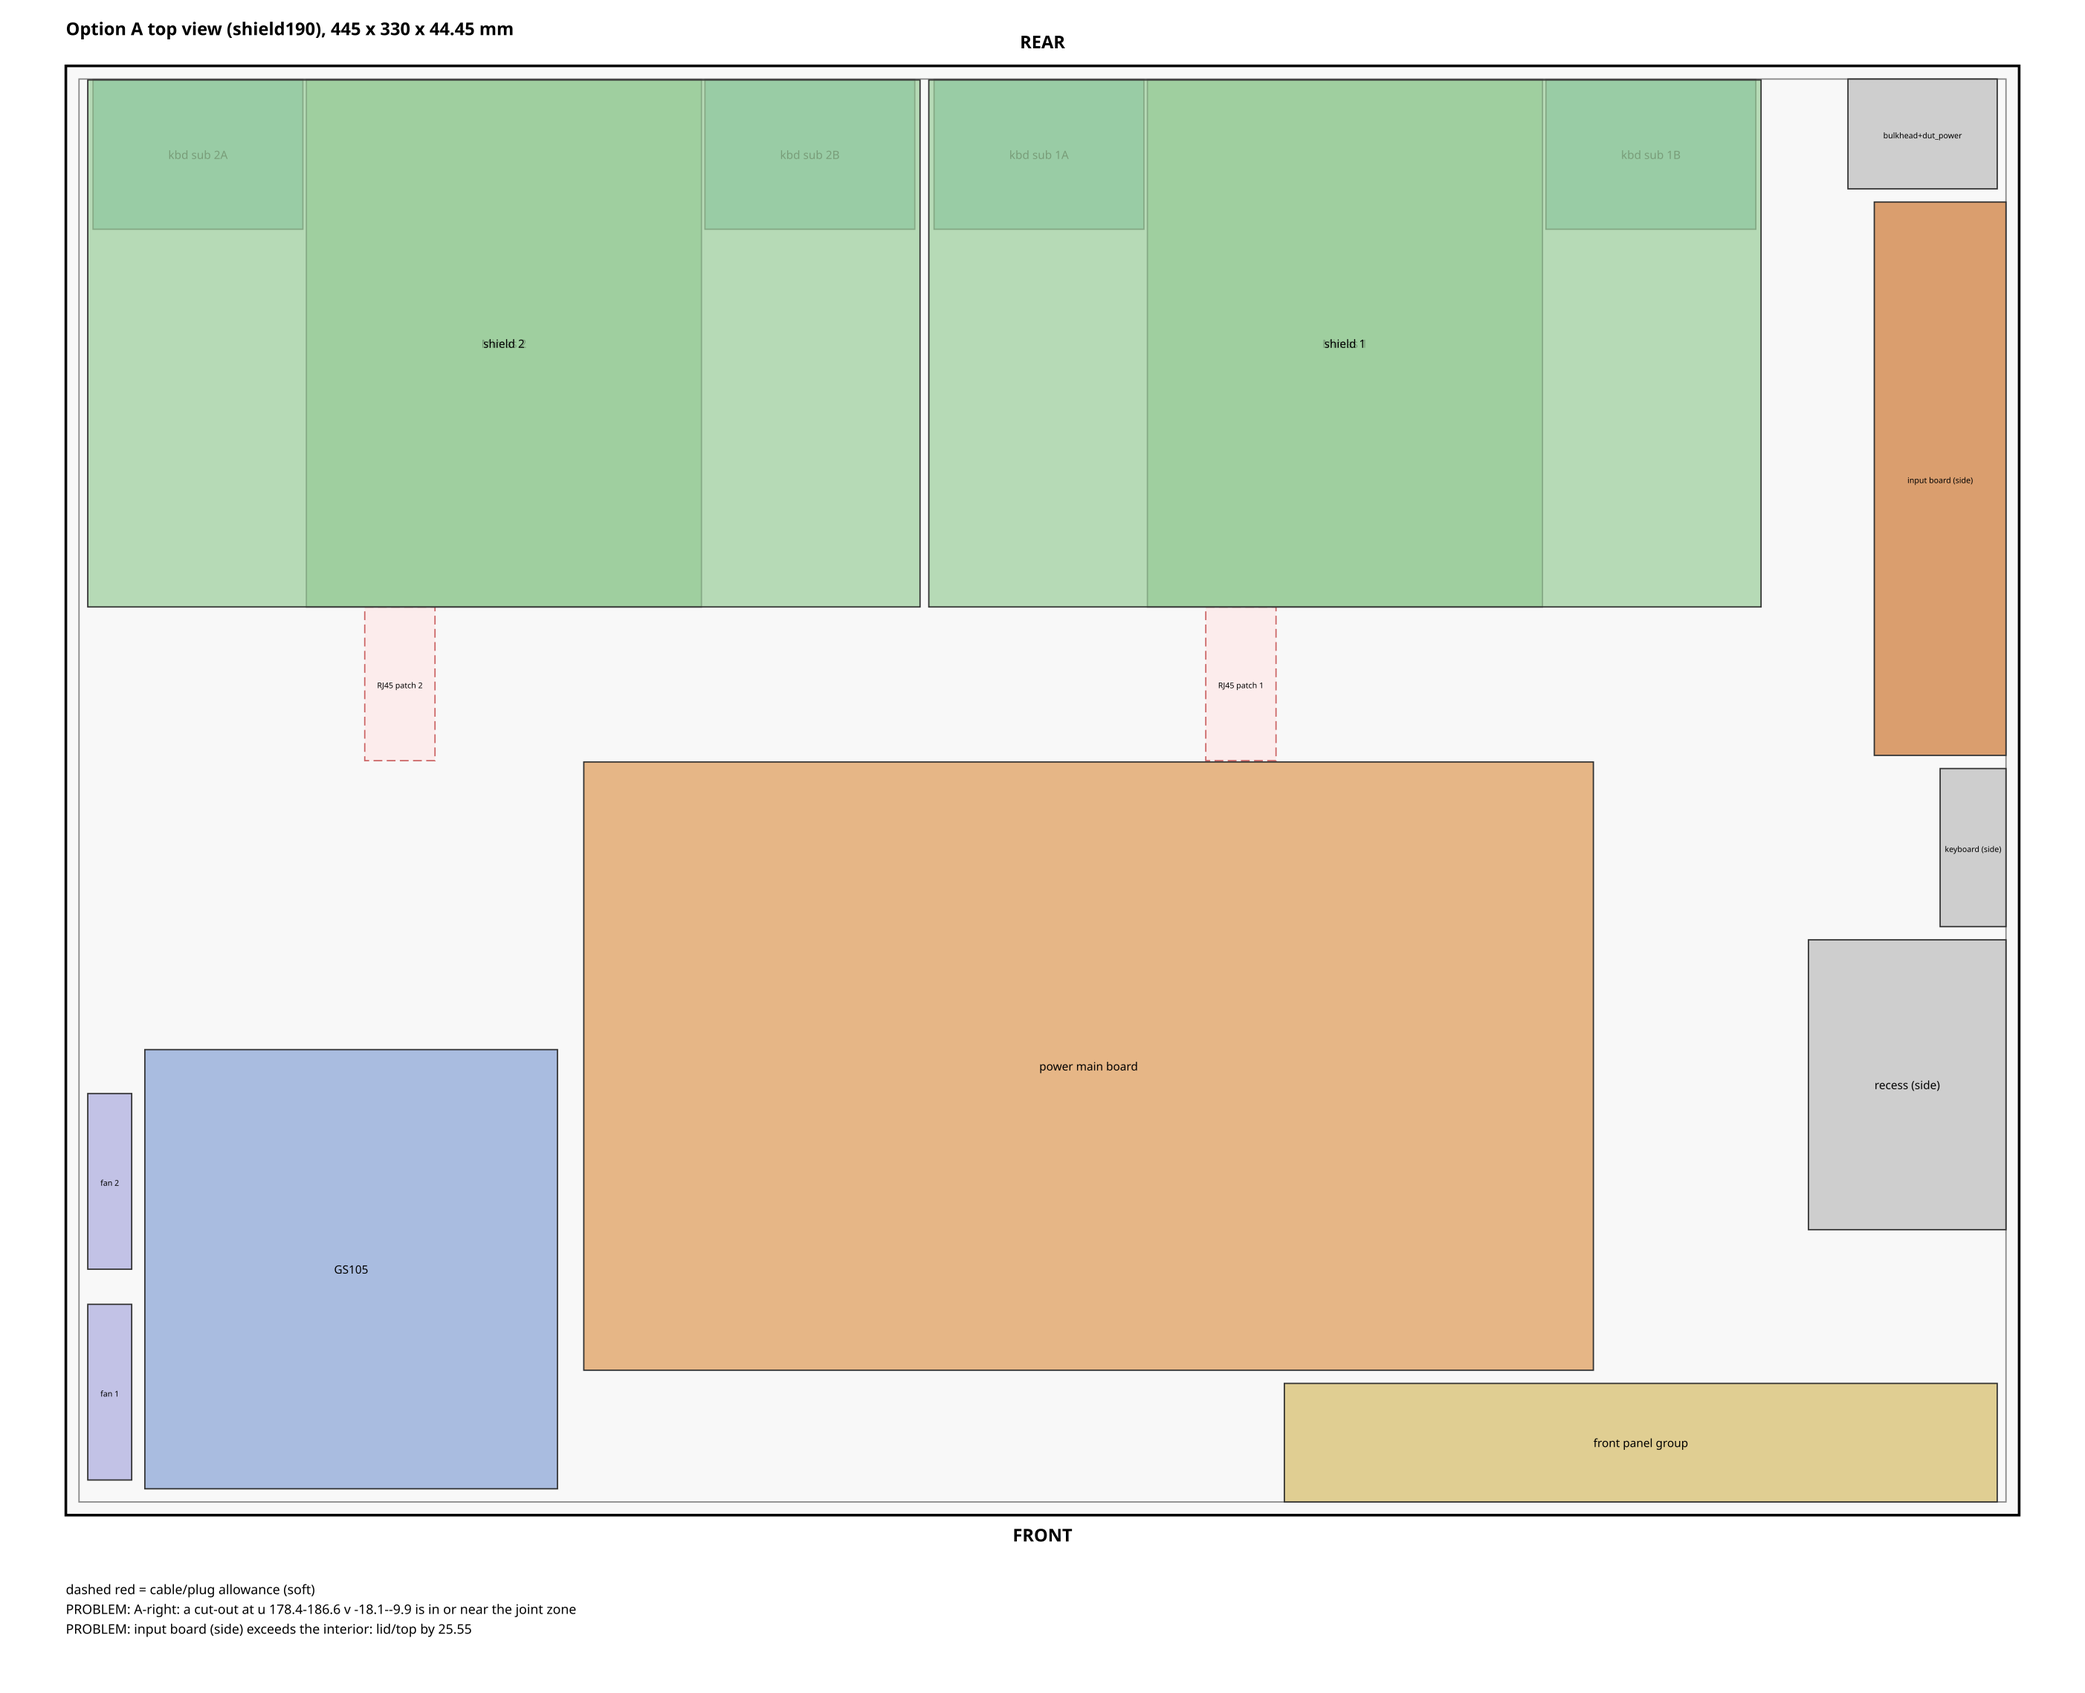
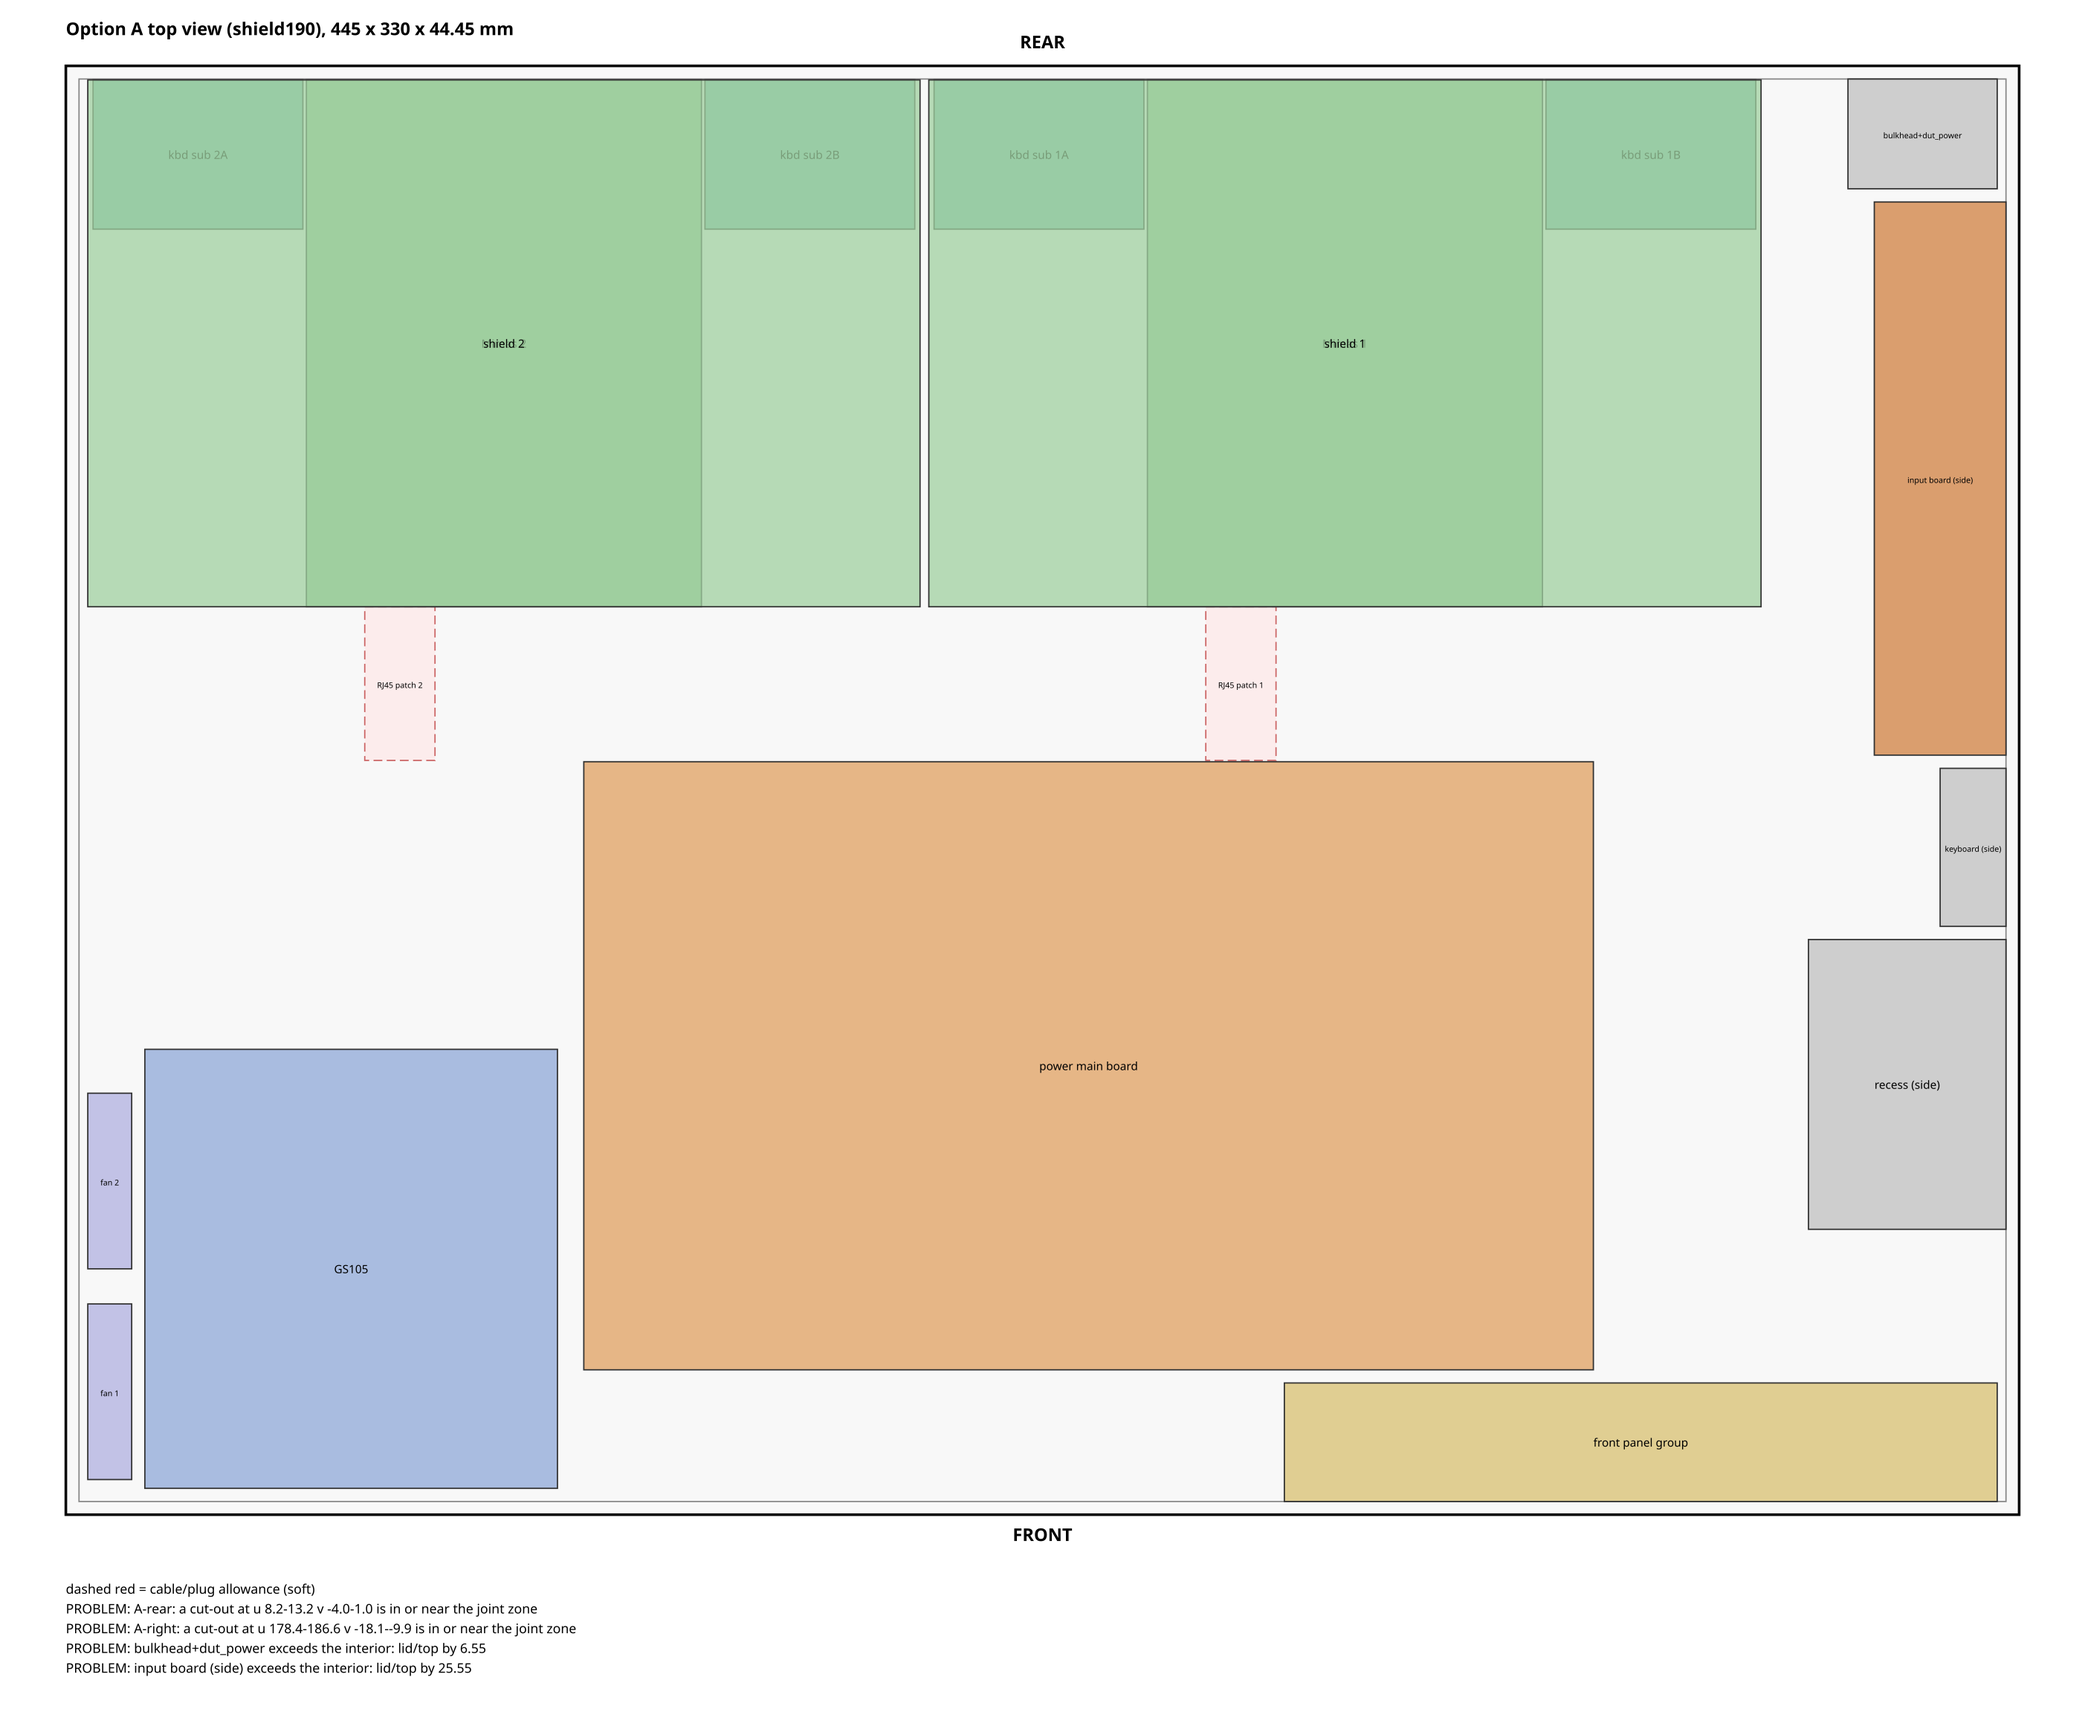
Case: 9th rear lead hole for the 6 V outlet (0055), in a row above the 12 V leads

diff --git a/hardware/mega-kvm-case/casegen/fragments.py b/hardware/mega-kvm-case/casegen/fragments.py
@@ -160,8 +160,13 @@ def keyboard(cfg, zc=18.0):
 
 
 def dut_power(cfg, z_rows=(25.0, 32.5)):
+    """8 DUT 12 V lead holes in two rows of 4, plus the extra leads in
+    ITEMS['dut_power']['extra'] (e.g. the 6 V outlet, issue 0055) in a third
+    row above them (same width, so the column next to the bays does not grow)."""
     d = cfg.ITEMS['dut_power']
+    extra = d.get('extra', [])[:4]
     w = 4 * d['pitch'] + 4.0
+    zs = list(z_rows) + ([z_rows[-1] + (z_rows[1] - z_rows[0])] if extra else [])
 
     def draw(p, u0, V):
         for r, z in enumerate(z_rows):
@@ -169,8 +174,14 @@ def dut_power(cfg, z_rows=(25.0, 32.5)):
                 u = u0 + 2.0 + d['pitch'] * (i + 0.5)
                 p.cut(Circle(u, V(z), d['hole_d'] / 2))
                 label(p, str(r * 4 + i + 1), u, V(z - d['hole_d'] / 2 - 1.1), 1.2)
-        label(p, 'DUT 12V', u0 + w / 2, V(z_rows[1] + d['hole_d'] / 2 + 1.6), 1.6)
-    return Item('dut_power', w, draw, 5.0, (z_rows[0] - 5, z_rows[1] + 5), title='DUT power leads (8)')
+        for i, name in enumerate(extra):
+            u = u0 + 2.0 + d['pitch'] * (i + 0.5)
+            p.cut(Circle(u, V(zs[-1]), d['hole_d'] / 2))
+            label(p, name, u, V(zs[-1] - d['hole_d'] / 2 - 1.1), 1.2)
+        label(p, 'DUT 12V' + (' / ' + ' '.join(extra) if extra else ''), u0 + w / 2,
+              V(zs[-1] + d['hole_d'] / 2 + 1.6), 1.6)
+    return Item('dut_power', w, draw, 5.0, (zs[0] - 5, zs[-1] + 5),
+                title='DUT power leads (%d)' % (8 + len(extra)))
 
 
 def net_and_power(cfg):

diff --git a/hardware/mega-kvm-case/config.py b/hardware/mega-kvm-case/config.py
@@ -156,7 +156,8 @@ FRONT = {               # front panel items (issue 0050)
 ITEMS = {
     'bulkhead': {'hole': (16.0, 13.5), 'screws': 13.0, 'screw_d': 3.4, 'depth': 25.0},  # flanged RJ45 coupler (ASSUMED)
     'keyboard': {'hole': (20.8, 9.4), 'screws': 15.0, 'screw_d': 3.4, 'depth': 15.0},   # 2x5 box header on a small adapter PCB
-    'dut_power': {'hole_d': 5.0, 'pitch': 7.5},      # 8 DC leads (screw terminals inside, barrel plugs outside)
+    'dut_power': {'hole_d': 5.0, 'pitch': 7.5,      # 8 DC leads (screw terminals inside, barrel plugs outside)
+                  'extra': ['6V']},                # + the K325T 6 V outlet lead (issue 0055)
     'recess': {'w': 60.0, 'h': 24.0, 'depth': 45.0},  # tuck-away pocket for unused DC barrel leads
 }
 

diff --git a/hardware/mega-kvm-case/out/fit-report-options-AB.md b/hardware/mega-kvm-case/out/fit-report-options-AB.md
@@ -5,7 +5,7 @@ Shield numbers from: geometry.py + placement.json.
 
 ## Summary
 
-* **Option A**: 445.0 x 330.0 x 44.45 mm (W x D x H): 2 problem(s).
+* **Option A**: 445.0 x 330.0 x 44.45 mm (W x D x H): 4 problem(s).
 * **Option B**: 444.5 x 409.0 x 43.90 mm (W x D x H): 4 problem(s).
 
 ## DUT-face variants (2 bays), width and height budgets
@@ -35,7 +35,9 @@ Note: the 279.6 mm single-row shield does not fit twice in a 19-inch case (559 m
 
 **Problems:**
 
+* A-rear: a cut-out at u 8.2-13.2 v -4.0-1.0 is in or near the joint zone
 * A-right: a cut-out at u 178.4-186.6 v -18.1--9.9 is in or near the joint zone
+* bulkhead+dut_power exceeds the interior: lid/top by 6.55
 * input board (side) exceeds the interior: lid/top by 25.55
 
 | Part | nearest neighbour (same height band) | gap mm | headroom to lid mm |
@@ -48,7 +50,7 @@ Note: the 279.6 mm single-row shield does not fit twice in a 19-inch case (559 m
 | shield 2 | shield 1 | 2.0 | 4.7 |
 | kbd sub 2A | Mimas 2 | 0.8 | 25.0 |
 | kbd sub 2B | Mimas 2 | 0.8 | 25.0 |
-| bulkhead+dut_power | input board (side) | 3.0 | 1.0 |
+| bulkhead+dut_power | input board (side) | 3.0 | -6.5 |
 | GS105 | fan 1 | 3.0 | 11.5 |
 | power main board | front panel group | 3.0 | 6.9 |
 | front panel group | power main board | 3.0 | 1.2 |
@@ -76,7 +78,7 @@ Note: the 279.6 mm single-row shield does not fit twice in a 19-inch case (559 m
 
 * front panel: NO ROOM for front panel: LCD, LEDs (red = powered, green = selected), buttons, rocker (162 mm)
 * front panel: NO ROOM for physical keyboard feed-through (2x5) (36 mm)
-* front panel: NO ROOM for DUT power leads (8) (34 mm)
+* front panel: NO ROOM for DUT power leads (9) (34 mm)
 * IEC cover: the banana pair needs 29.2 mm, the opening is 28.0 mm wide
 
 | Part | nearest neighbour (same height band) | gap mm | headroom to lid mm |
